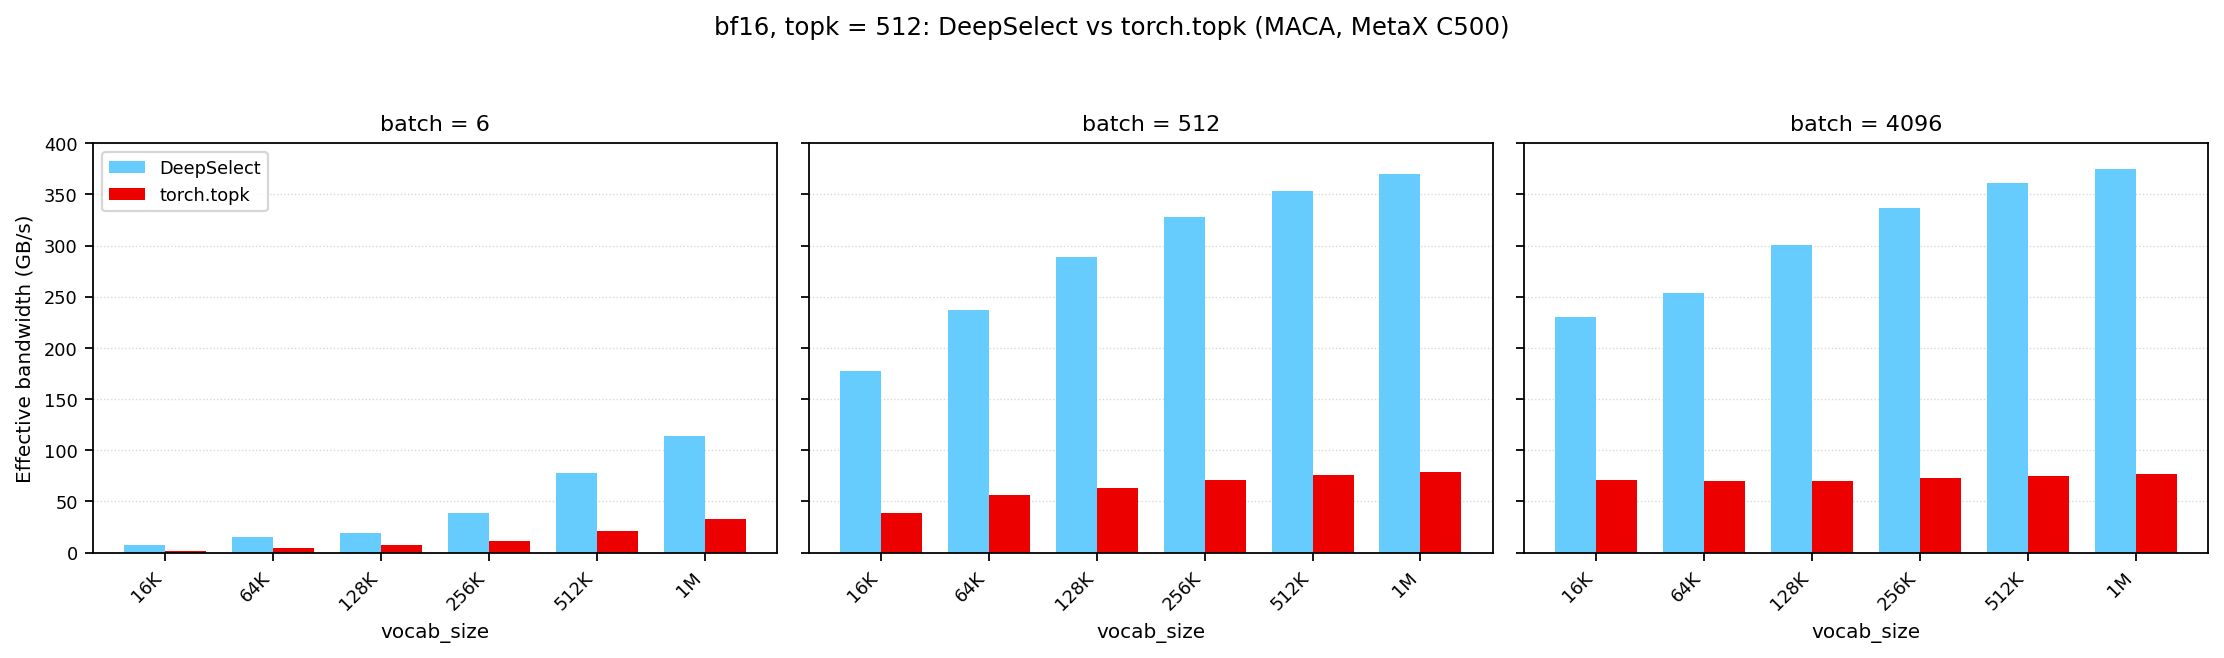
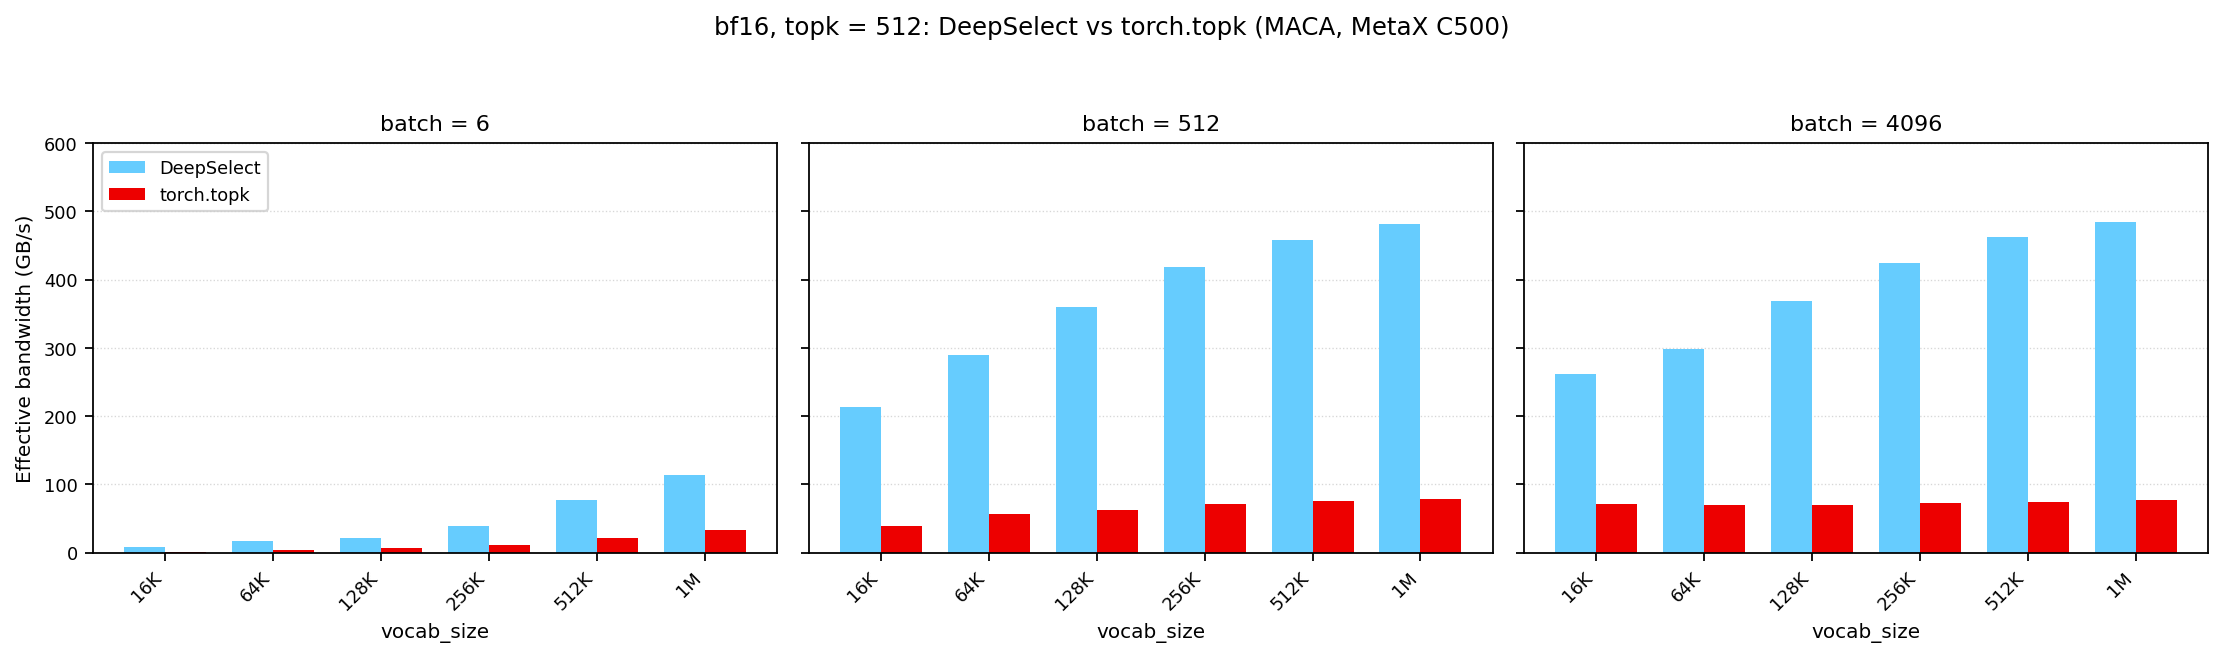
docs(figures): re-render the C500 pair from the recording the baseline points at
The two MetaX C500 figures had been drawn from
perf_data/MetaX_C500/20260919_160228 -- before `c36222a` (the NaN scan
folded into pass 1, 2026-10-08) and before `8e2a232` (the SWAR fold,
2026-10-09) -- so the README's visible claim was three weeks stale.
Re-rendered by scripts/plot_perf.py from the recording this tree's
baseline now names (perf_data/MetaX_C500/20261009_202953, artifact md5
6c28a77b52b6), which is the point of the figure/record pairing: they are
not allowed to disagree.

Attribution matters here, so: the bf16 bars carry BOTH commits.
b256/512/768/4096 at V >= 262144, k=512 move +25..+30% (b4096-v1048576-k512:
367.6 -> 474.8 GB/s), i.e. the ~1.20x of the NaN fold times the 1.07x this
session measured for the SWAR rewrite.  The SWAR change's own share is the
one the A/B and the pre-change comparison carry -- median 0.9431x on the row
route, 6-8% on the affected cells -- not the 30% the figure now shows against
its old self.

The fp32 figure is flat, and that is its role: v=129280 k=512 at
b=6/256/512/768/4096 reads 31.2/466.2/535.9/539.3/502.9 -> 31.9/465.9/536.5/
537.7/503.8 GB/s.  Its route (dg12 + row[preselected]) is untouched by either
commit, so it is the control on the re-render itself.

The C600-U pair is deliberately NOT re-rendered: no C600-U measurement backs
this change, and drawing one from a C500 recording would be a false figure
about a part with a different SM count, clock and read wall.  The README now
[…]

diff --git a/README.md b/README.md
@@ -200,6 +200,14 @@ Measured with the benchmark in [`tests/test.py`](tests/test.py)
 on the same input. The metric is effective memory bandwidth: TopK does no
 floating-point math, so a FLOP rate would not be meaningful here.
 
+Each figure is drawn from one recording by
+[`scripts/plot_perf.py`](scripts/plot_perf.py) -- `python3 scripts/plot_perf.py
+<recording>` re-renders it -- so the picture and the record it came from cannot
+disagree. The two **C500** figures are drawn from
+`perf_data/MetaX_C500/20261009_202953` (artifact md5 `6c28a77b52b6`); the
+**C600-U** pair is from the 2026-10-08 re-measurement (commit `622a5b2`,
+28-AP part, artifact md5 `7844e79adcb664fb1a4f4d897c2fd011`).
+
 ### Lightning Indexer Scenario (MACA)
 
 bfloat16, `topk = 512`, one subplot per batch size. One figure per device:
